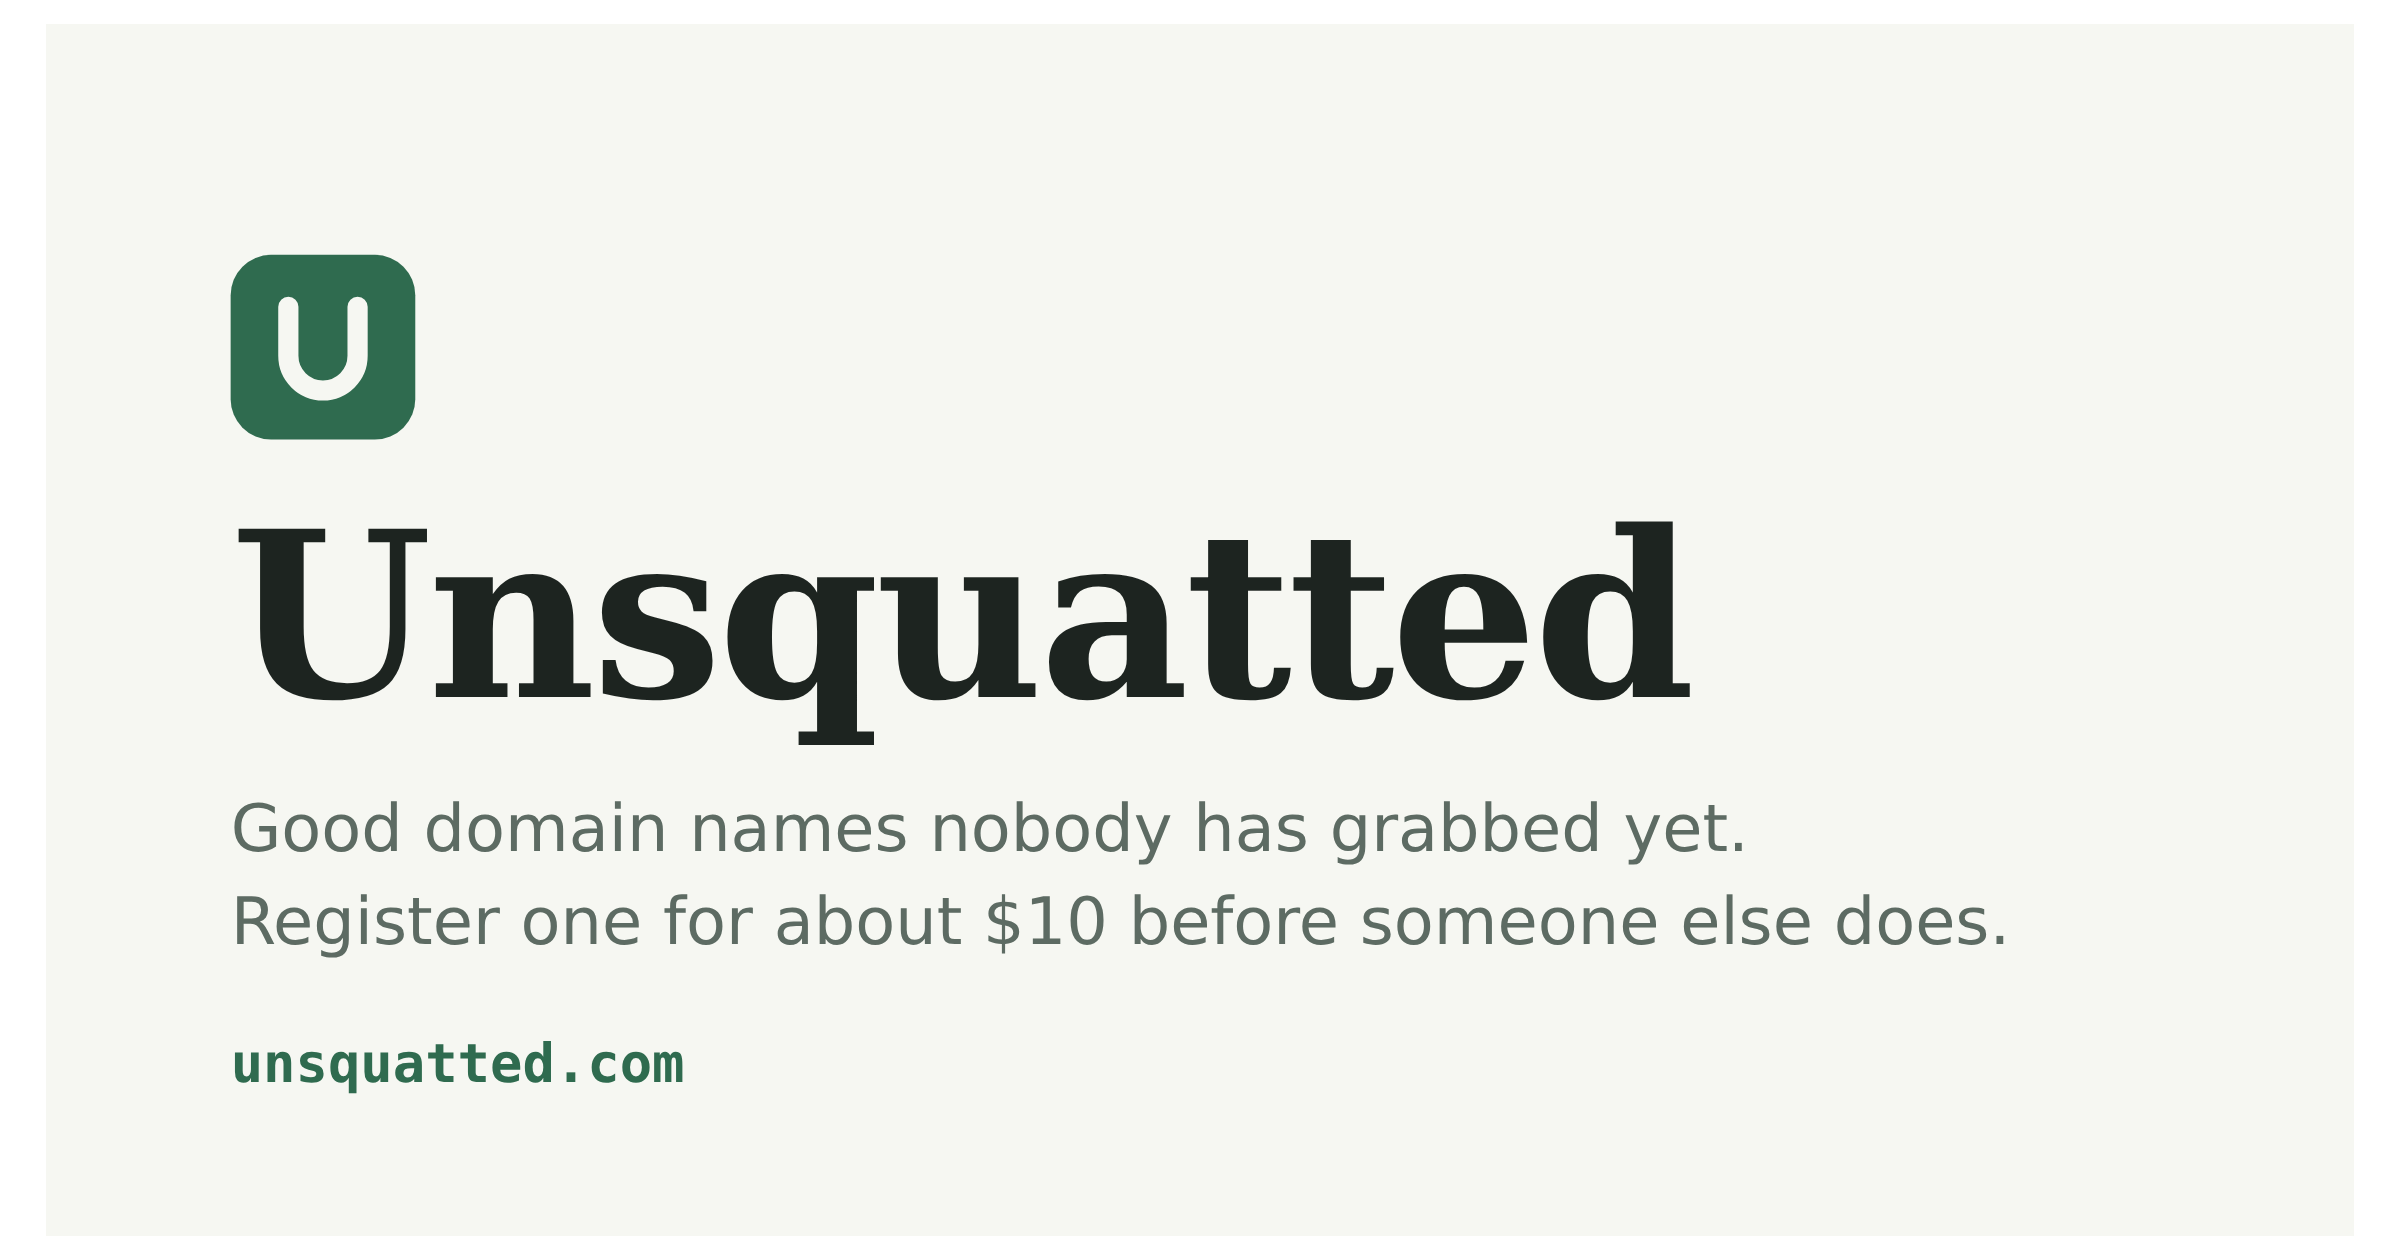
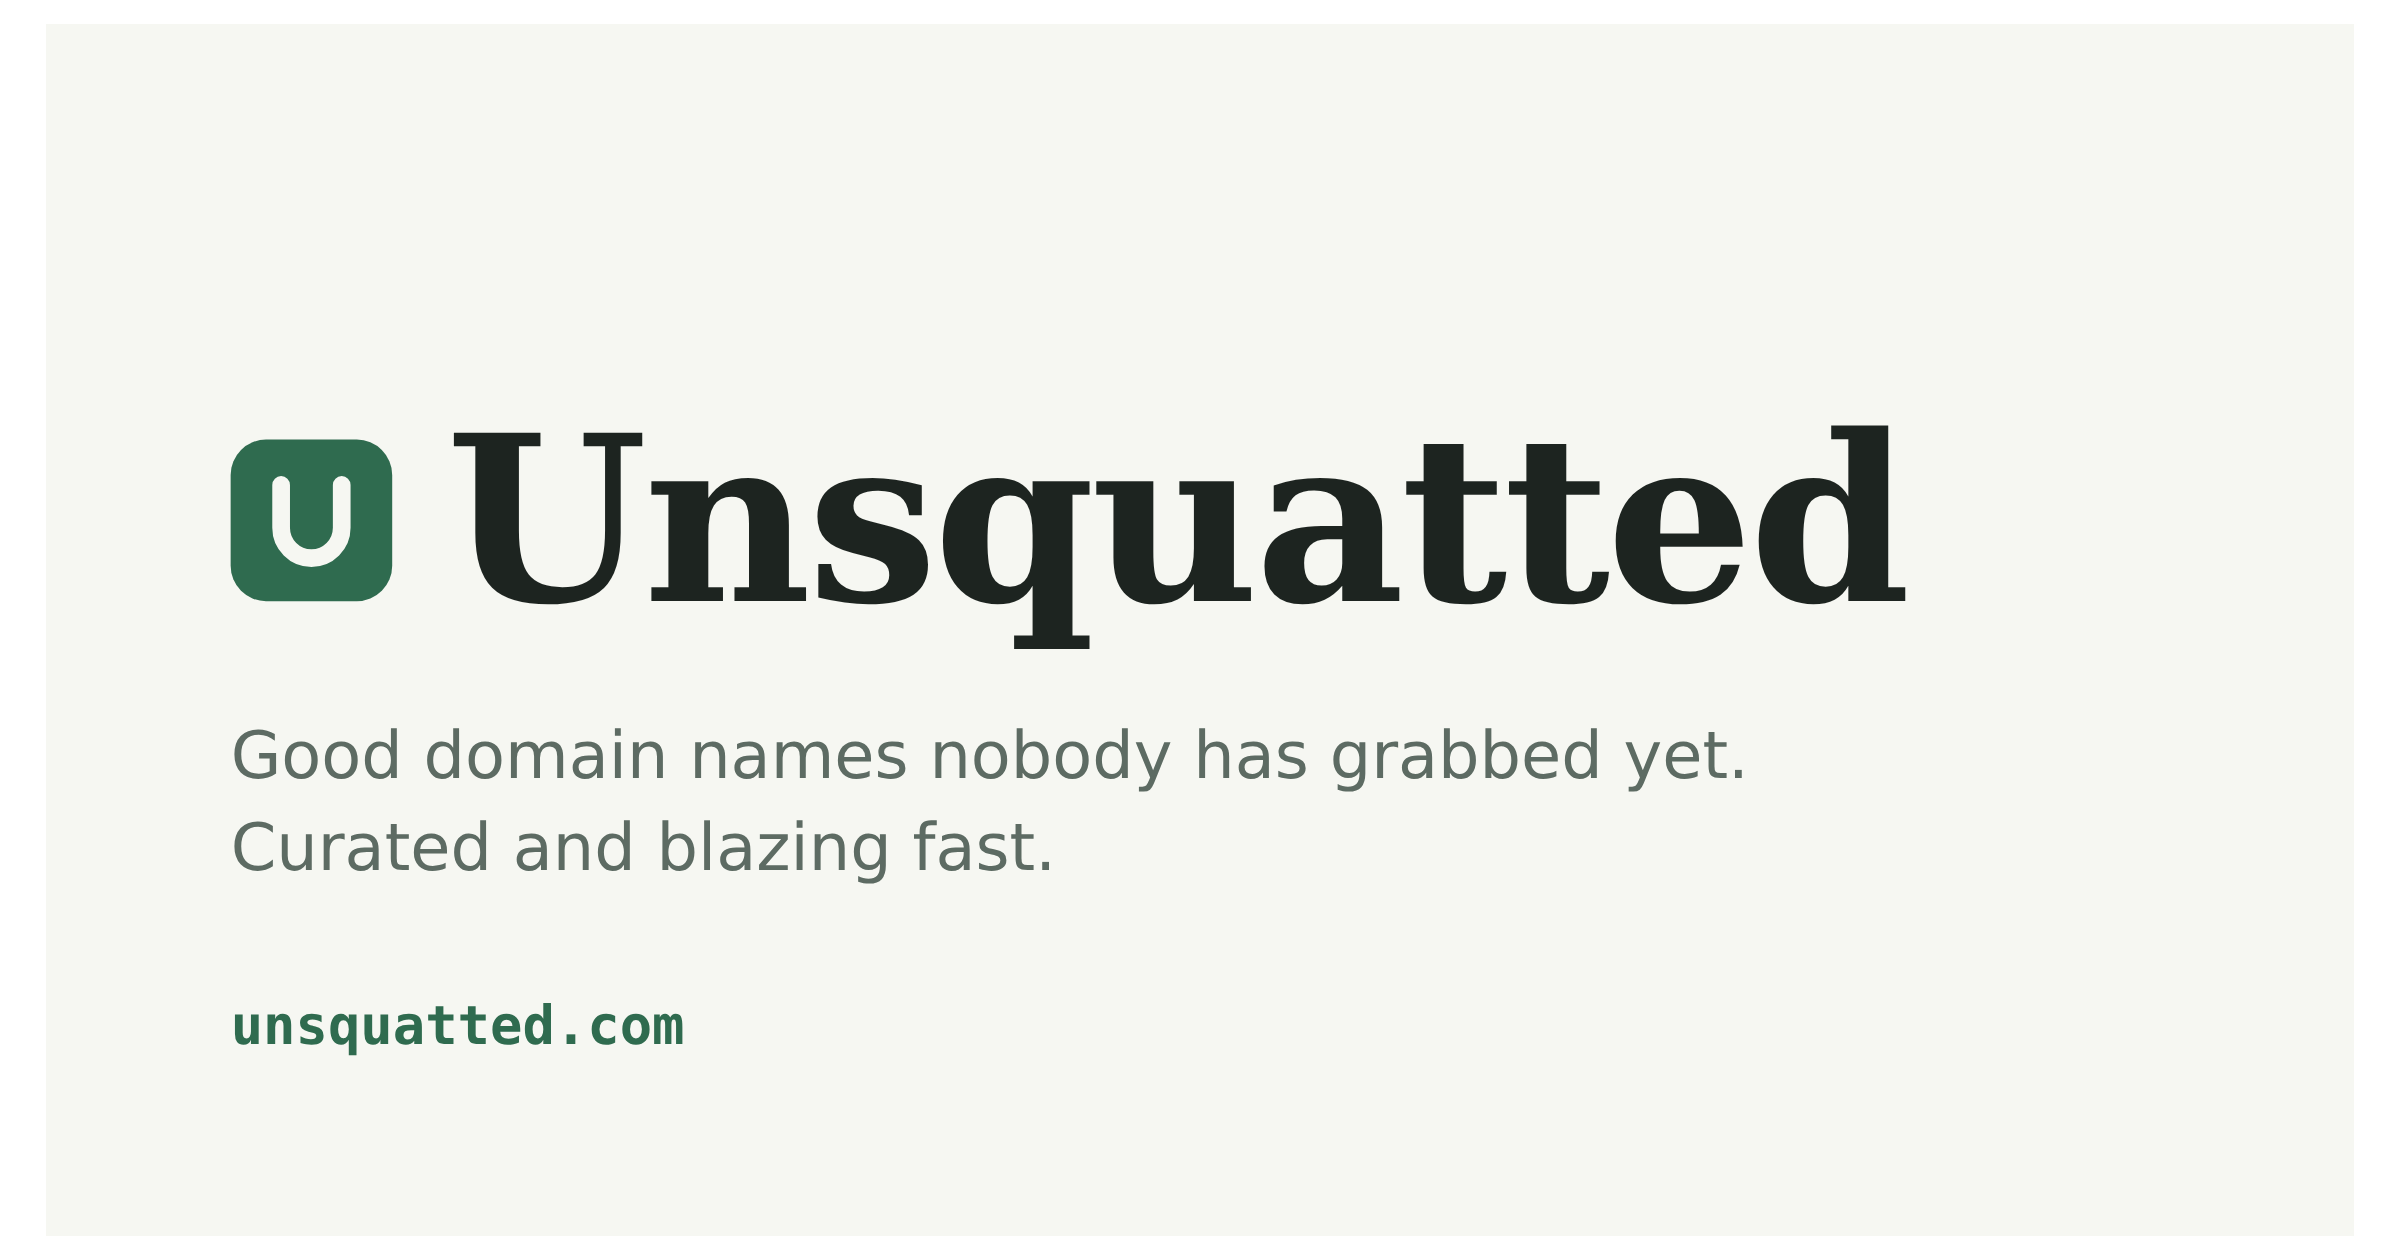
feat(unsquatted): the card sets the mark beside the wordmark, and says what the hero says
The mark stood alone above the name, which read as a stray icon; it now
sits on the wordmark's line at cap height. The card's lines and the site
tagline both follow the hero, which no longer quotes a price.

Claude-Session: https://claude.ai/code/session_01DaohkEkTUTi5cT95s15DRo

Changed region(s): [[0.0938, 0.1857, 0.8438, 0.7738], [0.0938, 0.8048, 0.2812, 0.8667]]

diff --git a/src/kernel/shared/config/site-config.ts b/src/kernel/shared/config/site-config.ts
@@ -248,8 +248,7 @@ const SITE_CONFIGS: Record<SiteId, SiteConfig> = {
     url: 'https://unsquatted.com',
     downloadPrefix: 'unsquatted',
     name: 'Unsquatted',
-    tagline:
-      'Good domain names nobody has grabbed yet. Register one for about $10 before someone else does.',
+    tagline: 'Good domain names nobody has grabbed yet. Curated and blazing fast.',
     // The card is the mark: `pnpm content:og unsquatted` rasterises it from
     // the vector beside it.
     avatar: { ...UNSQUATTED_CARD, vector: '/card.svg' },
